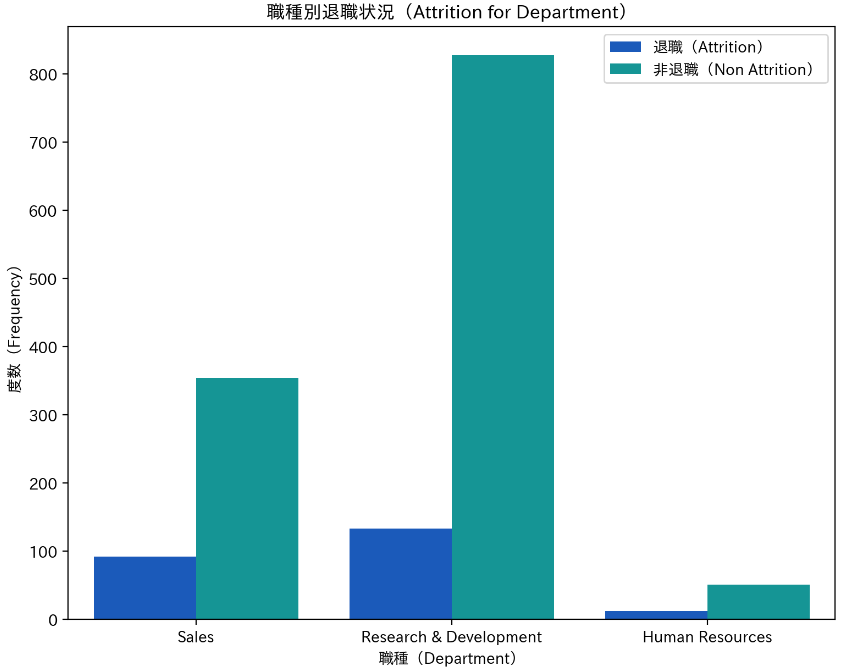
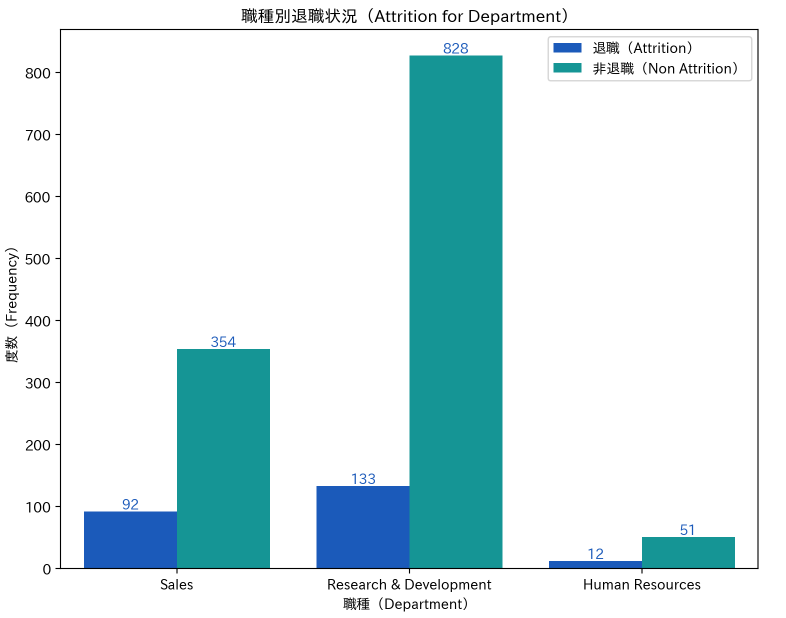
1222

diff --git a/_posts/2023-10-20-seaborn_cross_table_visualization.md b/_posts/2023-10-20-seaborn_cross_table_visualization.md
@@ -1,18 +1,22 @@
 ---
 layout: post
-title: Seaborn を使ってクロス集計の可視化を行う
+title: Seaborn の棒グラフにデータラベルを追加して可視化する
 feature-img: "assets/img/2020_08_15/geometric-shapes-7491454_1280.jpg"
-tags: [Python, seaborn, cross table ]
+tags: [Python, seaborn, データラベル, annotation ]
 excerpt_separator: <!--more-->
 ---
 
-ビジュアライゼーションツールであるSeabornを使ってクロス集計の可視化を行う方法をまとめました。
+ビジュアライゼーションツールであるSeabornを使って3グループのそれぞれ2値の比較を棒グラフとデータラベルで可視化を行う方法をまとめました。
 
 ----
 
+### ターゲット画像
+このページで作成する画像は、以下の図となります。<br>
+![data_frame]({{ "assets/img/2020_08_15/fig1020003.png" | relative_url}}){:height="70%" width="70%"}<br>
+
 ### サンプルデータセットの紹介
 
-データセットを利用しながら、説明をした方が分かりやすいと思いますので、今回も
+データセットを利用しながら、説明をします。
 [Sample Dataset](https://www.so-wi.com/2019/06/01/reference_data.html){:target="_blank"}で紹介した、HRデータ（データセット3）の一部のカラムを利用して具体的に説明したいと思います。
 
 <!--more-->
@@ -22,7 +26,7 @@ excerpt_separator: <!--more-->
 「Attrition（アトリション）」は、組織や企業において従業員の離職や退職のことを指す言葉です。従業員の流出や離脱とも訳されます。
 企業や組織は、Attritionの影響を最小限に抑えるために、離職率や離職原因の分析、従業員の定着策やキャリア開発プログラムの実施などの対策を取ることがあります。また、Attritionの率や傾向は、組織の人材計画や採用戦略にも影響を与える重要な指標となります。
 
-今回は、Attrition 影響分析としてGender（性別）とDepartment(所属部門)で一見して差異があるかをどうかを可視化します。
+Attrition 影響分析としてGender（性別）とDepartment(所属部門)で一見して差異があるかをどうかを可視化します。
 
 
 ### データセットは以下のとおりです。
@@ -83,32 +87,56 @@ plt.xlabel('職種（Department）')
 plt.legend(["退職（Attrition）", "非退職（Non Attrition）"])
 plt.ylabel('度数（Frequency）')
 
+for i in range(2):
+    ax.bar_label(ax.containers[i], fontsize=10, color = '#1b5aba');
+
 plt.show()
 
 {% endhighlight %}
 
 結果は以下のとおりです。
 
-![data_frame]({{ "assets/img/2020_08_15/fig1020003.png" | relative_url}}){:height="65%" width="65%"}<br>
+![data_frame]({{ "assets/img/2020_08_15/fig1020003.png" | relative_url}})<br>
 
 ### seaborn.countplot の詳細
 
-可視化の要となる`ax = sns.countplot( data=df, x = df['Department'], hue='Attrition',palette="winter")`{:style="background: #ff0044; color: white; font-size: 100%"}について説明したいと思います。詳しい説明は、
+可視化の要となるax = sns.countplot`( data=df, x = df['Department'], hue='Attrition',palette="winter")`{:style="background: #ff0044; color: white; font-size: 100%"}について説明したいと思います。詳しい説明は、
 [seaborn countplot](https://seaborn.pydata.org/generated/seaborn.countplot.html){:target="_blank"}を参考にしてください。
 
 
+<div style="font-size: 110%; padding: 20px; margin-bottom: 10px; border: 3px solid #DF1452; border-radius: 8px;">
 変数２つでグルーピング（集約）することで、クロス集計を視覚化します。　
 <dl>
 <dt>data</dt>
 <dd>データフレームを指定します。対象データセットです</dd>
 
-<dt>x, hue</dt>
-<dd>グルーピングする2変数を割り当てます。</dd>
+<dt>x</dt>
+<dd>x軸とするカラムを指定します。今回は`Department`</dd>
+
+<dt>hue</dt>
+<dd>色合いの英語であるhue から各色の意味=右上の凡例の表記をさせます。</dd>
 
 <dt>palette="winter"</dt> 
 <dd>棒グラフの色をパレットで指定しています。この例では"winter"パレットを指定しました。</dd>
 
 </dl>
+</div>
+
+
+### データラベルを付ける
+データラベルは、以下のCoding で実現しています。`bar_labe;()`{:style="background: #64f5eb; font-size: 105%"}を利用すると簡単に実現できます。
+ちなみに、`range(2)`{:style="background: #64f5eb; font-size: 105%"}の2 は
+比較対象で `hue`{:style="background: #64f5eb; font-size: 105%"}で
+凡例としている `Attrition/Non Attrition`{:style="background: #64f5eb; font-size: 105%"} の
+2値の`2`{:style="background: #ff0044; color: white; font-size: 110%"}が入ります。
+
+{% highlight python linenos %}
+
+for i in range(2):
+    ax.bar_label(ax.containers[i], fontsize=10, color = '#1b5aba');
+
+{% endhighlight %}
+
 
 ----
 
